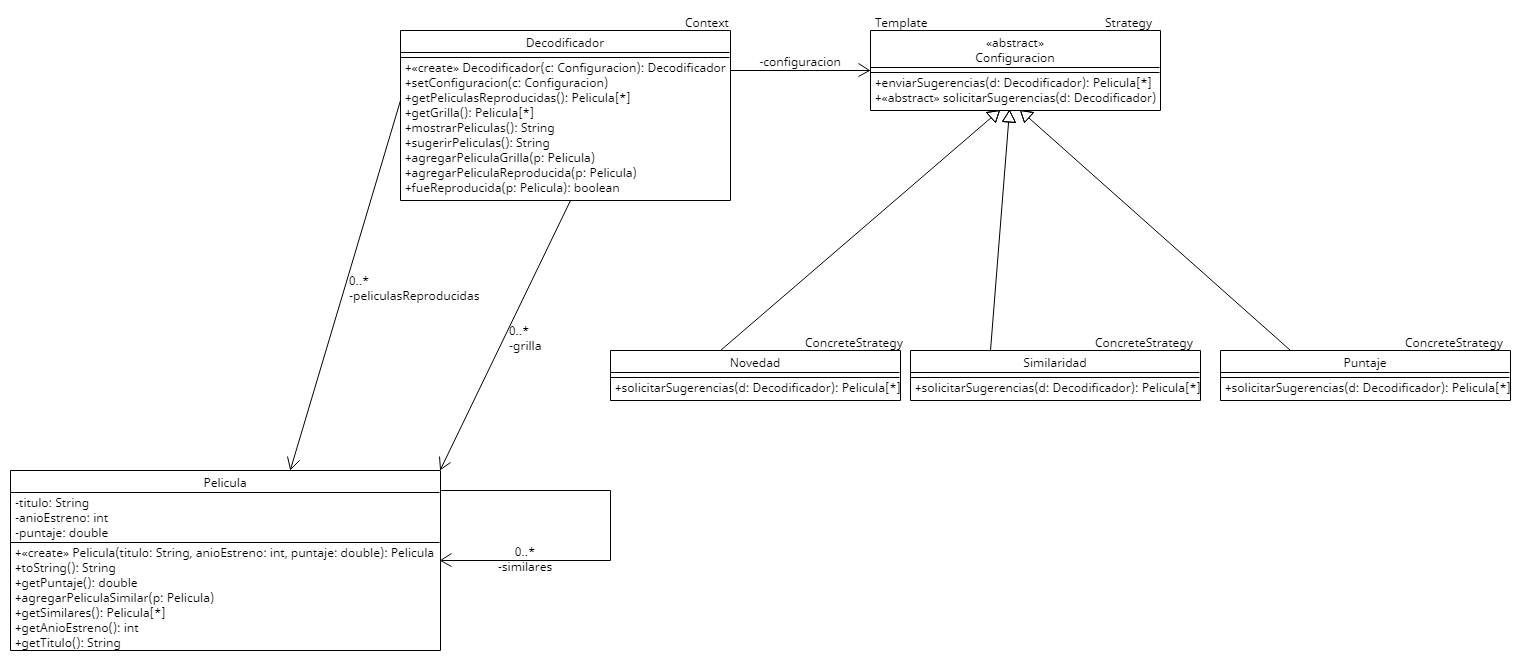
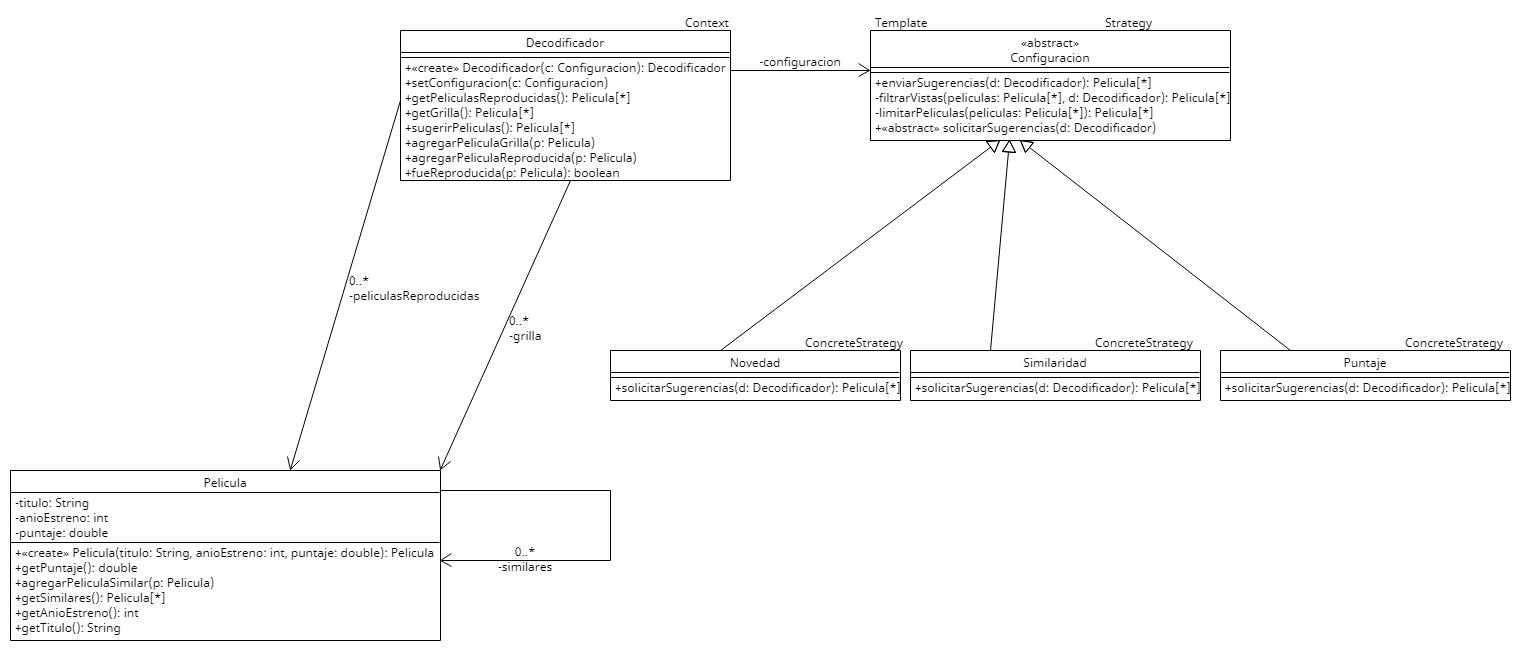
Ejercicios 9 al 13[corregidos]

diff --git a/Ejercicio 13/DecodificadorTest.java b/Ejercicio 13/DecodificadorTest.java
@@ -2,12 +2,15 @@ package ejercicio13Test;
 
 import ejercicio13.*;
 import static org.junit.jupiter.api.Assertions.*;
+
+import java.util.Arrays;
+
 import org.junit.jupiter.api.BeforeEach;
 import org.junit.jupiter.api.Test;
 
 public class DecodificadorTest {
 	private Decodificador dec1, dec2, dec3;
-	private Pelicula pelic1, pelic2, pelic3, pelic4, pelic5, pelic6;
+	private Pelicula pelic1, pelic2, pelic3, pelic4, pelic5, pelic6, pelic7;
 
 	@BeforeEach
 	public void setUp() {
@@ -20,6 +23,7 @@ public class DecodificadorTest {
 		this.pelic4 = new Pelicula("Dunkirk", 2017, 8.3);
 		this.pelic5 = new Pelicula("Rocky", 1976, 8.2);
 		this.pelic6 = new Pelicula("Rambo", 1979, 7.8);
+		this.pelic7 = new Pelicula("The Fall Guy", 2024, 6.9);
 		this.pelic1.agregarPeliculaSimilar(pelic2);
 		this.pelic1.agregarPeliculaSimilar(pelic3);
 		this.pelic5.agregarPeliculaSimilar(pelic6);
@@ -34,12 +38,10 @@ public class DecodificadorTest {
 
 	@Test
 	public void testMostrarPeliculas() {
-		assertEquals(
-				"Titulo: Thor, año de estreno: 2011, puntaje: 7.5\nTitulo: Captain America: The First Avenger, año de estreno: 2011, puntaje: 7.8\nTitulo: Iron Man, año de estreno: 2008, puntaje: 8.1",
-				this.dec1.mostrarPeliculas());
-		assertEquals(
-				"Titulo: Dunkirk, año de estreno: 2017, puntaje: 8.3\nTitulo: Rocky, año de estreno: 1976, puntaje: 8.2\nTitulo: Rambo, año de estreno: 1979, puntaje: 7.8",
-				this.dec2.mostrarPeliculas());
+		assertEquals(Arrays.asList(pelic1, pelic2, pelic3), this.dec1.getGrilla());
+		assertEquals(3, this.dec1.getGrilla().size());
+		assertEquals(Arrays.asList(this.pelic4, this.pelic5, this.pelic6), this.dec2.getGrilla());
+		assertTrue(this.dec2.getGrilla().contains(pelic4));
 	}
 
 	@Test
@@ -47,38 +49,28 @@ public class DecodificadorTest {
 		this.dec1.agregarPeliculaGrilla(pelic4);
 		this.dec1.agregarPeliculaGrilla(pelic5);
 		this.dec1.agregarPeliculaGrilla(pelic6);
-		assertEquals(
-				"Titulo: Dunkirk, año de estreno: 2017, puntaje: 8.3\nTitulo: Thor, año de estreno: 2011, puntaje: 7.5\nTitulo: Captain America: The First Avenger, año de estreno: 2011, puntaje: 7.8",
-				this.dec1.sugerirPeliculas());
+		assertEquals(Arrays.asList(this.pelic4, this.pelic1, this.pelic2), this.dec1.sugerirPeliculas());
 		Decodificador d10 = new Decodificador(new Novedad());
 		Pelicula p11 = new Pelicula("Toy Story 4", 2019, 4.5);
 		Pelicula p12 = new Pelicula("Parasite", 2019, 10);
-		Pelicula p13 = new Pelicula("The Lion King", 2019, 7.5);
+		Pelicula p13 = new Pelicula("The Lion King", 2019, 7.5); 
 		d10.agregarPeliculaGrilla(p11);
 		d10.agregarPeliculaGrilla(p12);
 		d10.agregarPeliculaGrilla(p13);
-		d10.agregarPeliculaGrilla(new Pelicula("The Fall Guy", 2024, 6.9));
-		assertEquals(
-				"Titulo: The Fall Guy, año de estreno: 2024, puntaje: 6.9\nTitulo: Toy Story 4, año de estreno: 2019, puntaje: 4.5\nTitulo: Parasite, año de estreno: 2019, puntaje: 10.0",
-				d10.sugerirPeliculas());
+		d10.agregarPeliculaGrilla(this.pelic7);
+		assertEquals(Arrays.asList(this.pelic7, p11, p12), d10.sugerirPeliculas());
 		this.dec1.agregarPeliculaReproducida(pelic4);
-		assertEquals(
-				"Titulo: Thor, año de estreno: 2011, puntaje: 7.5\nTitulo: Captain America: The First Avenger, año de estreno: 2011, puntaje: 7.8\nTitulo: Iron Man, año de estreno: 2008, puntaje: 8.1",
-				this.dec1.sugerirPeliculas());
+		assertEquals(Arrays.asList(this.pelic1, this.pelic2, this.pelic3), this.dec1.sugerirPeliculas());
 	}
 
 	@Test
-	public void testSolicitarSugerenciasSimilaridad() {
-		Pelicula pel10 = new Pelicula("The Fall Guy", 2024, 6.9);
-		this.pelic5.agregarPeliculaSimilar(pel10);
+	public void testSolicitarSugerenciasSimilaridad() { 
+		this.pelic5.agregarPeliculaSimilar(this.pelic7);
+		assertEquals(Arrays.asList(this.pelic2, this.pelic3), this.dec3.sugerirPeliculas());
 		this.dec3.agregarPeliculaGrilla(pelic5);
-		assertEquals(
-				"Titulo: The Fall Guy, año de estreno: 2024, puntaje: 6.9\nTitulo: Captain America: The First Avenger, año de estreno: 2011, puntaje: 7.8\nTitulo: Iron Man, año de estreno: 2008, puntaje: 8.1",
-				this.dec3.sugerirPeliculas());
+		assertEquals(Arrays.asList(this.pelic7, this.pelic2, this.pelic3), this.dec3.sugerirPeliculas());
 		this.dec3.agregarPeliculaReproducida(pelic2);
-		assertEquals(
-				"Titulo: The Fall Guy, año de estreno: 2024, puntaje: 6.9\nTitulo: Iron Man, año de estreno: 2008, puntaje: 8.1\nTitulo: Rambo, año de estreno: 1979, puntaje: 7.8",
-				this.dec3.sugerirPeliculas());
+		assertEquals(Arrays.asList(this.pelic7, this.pelic3, this.pelic6), this.dec3.sugerirPeliculas());
 	}
 
 	@Test
@@ -87,12 +79,8 @@ public class DecodificadorTest {
 		this.dec1.agregarPeliculaGrilla(pelic5);
 		this.dec1.agregarPeliculaGrilla(pelic6);
 		this.dec1.setConfiguracion(new Puntaje());
-		assertEquals(
-				"Titulo: Dunkirk, año de estreno: 2017, puntaje: 8.3\nTitulo: Rocky, año de estreno: 1976, puntaje: 8.2\nTitulo: Iron Man, año de estreno: 2008, puntaje: 8.1",
-				this.dec1.sugerirPeliculas());
+		assertEquals(Arrays.asList(this.pelic4, this.pelic5, this.pelic3), this.dec1.sugerirPeliculas());
 		this.dec1.agregarPeliculaReproducida(pelic3);
-		assertEquals(
-				"Titulo: Dunkirk, año de estreno: 2017, puntaje: 8.3\nTitulo: Rocky, año de estreno: 1976, puntaje: 8.2\nTitulo: Captain America: The First Avenger, año de estreno: 2011, puntaje: 7.8",
-				this.dec1.sugerirPeliculas());
+		assertEquals(Arrays.asList(this.pelic4, this.pelic5, this.pelic2), this.dec1.sugerirPeliculas());
 	}
 }

diff --git a/Ejercicio 13/Decodificador.java b/Ejercicio 13/Decodificador.java
@@ -2,7 +2,6 @@ package ejercicio13;
 
 import java.util.ArrayList;
 import java.util.List;
-import java.util.stream.Collectors;
 
 public class Decodificador {
 	private List<Pelicula> grilla, peliculasReproducidas;
@@ -26,13 +25,8 @@ public class Decodificador {
 		return grilla;
 	}
 
-	public String mostrarPeliculas() {
-		return this.grilla.stream().map(p -> p.toString()).collect(Collectors.joining("\n"));
-	}
-
-	public String sugerirPeliculas() {
-		return this.configuracion.enviarSugerencias(this).stream().map(p -> p.toString())
-				.collect(Collectors.joining("\n"));
+	public List<Pelicula> sugerirPeliculas() {
+		return this.configuracion.enviarSugerencias(this);
 	}
 
 	public void agregarPeliculaGrilla(Pelicula p) {
@@ -44,6 +38,6 @@ public class Decodificador {
 	}
 
 	public boolean fueReproducida(Pelicula p) {
-		return this.peliculasReproducidas.stream().anyMatch(pel -> pel.getTitulo().equals(p.getTitulo()));
+		return this.peliculasReproducidas.stream().anyMatch(pel -> pel == p);
 	}
 }

diff --git a/Ejercicio 13/Configuracion.java b/Ejercicio 13/Configuracion.java
@@ -6,8 +6,17 @@ import java.util.stream.Collectors;
 public abstract class Configuracion {
 
 	public List<Pelicula> enviarSugerencias(Decodificador d) {
-		return this.solicitarSugerencias(d).stream().filter(p -> !d.fueReproducida(p)).collect(Collectors.toList())
-				.stream().limit(3).collect(Collectors.toList());
+//		return this.solicitarSugerencias(d).stream().filter(p -> !d.fueReproducida(p)).collect(Collectors.toList())
+//				.stream().limit(3).collect(Collectors.toList());
+		return this.limitarPeliculas(this.filtrarVistas(this.solicitarSugerencias(d), d));
+	}
+	
+	private List<Pelicula> filtrarVistas(List<Pelicula> peliculas, Decodificador d) {
+		return peliculas.stream().filter(p -> !d.fueReproducida(p)).collect(Collectors.toList());
+	}
+	
+	private List<Pelicula> limitarPeliculas(List<Pelicula> peliculas) {
+		return peliculas.stream().limit(3).collect(Collectors.toList());
 	}
 
 	public abstract List<Pelicula> solicitarSugerencias(Decodificador d);

diff --git a/Ejercicio 9/Provisoria.java b/Ejercicio 9/Provisoria.java
@@ -4,10 +4,10 @@ public class Provisoria extends State {
 
 	public void inscribir(Excursion e, Usuario unUsuario) {
 		e.getInscriptos().add(unUsuario);
+		if (e.cantidadInscriptos() == e.getCupoMax()) // por si cupoMax = cupoMin
+			e.setEstado(new Completa());
 		if (e.cantidadInscriptos() == e.getCupoMin())
 			e.setEstado(new Definitiva());
-		if (e.cantidadInscriptos() == e.getCupoMax())
-			e.setEstado(new Completa());
 	}
 
 	public String obtenerInformacion(Excursion e) {

diff --git a/Ejercicio 11/Confirmada.java b/Ejercicio 11/Confirmada.java
@@ -1,5 +1,8 @@
 package ejercicio11;
 
-public class Confirmada extends State {
+public class Confirmada extends State { 
 
+	public void aprobarEtapa(Proyecto p) { // puse este metodo porque sino me queda una clase anemica, pero sino no hace falta
+		throw new RuntimeException("No se puede aprobar esta etapa ya que el proyecto ya esta confirmado");
+	}
 }

diff --git a/Ejercicio 13/Pelicula.java b/Ejercicio 13/Pelicula.java
@@ -15,10 +15,6 @@ public class Pelicula {
 		this.puntaje = puntaje;
 		this.similares = new ArrayList<Pelicula>();
 	}
-
-	public String toString() {
-		return "Titulo: " + this.titulo + ", año de estreno: " + this.anioEstreno + ", puntaje: " + this.puntaje;
-	}
 	
 	public double getPuntaje() {
 		return puntaje;
